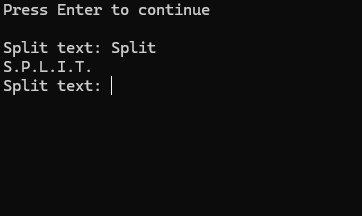
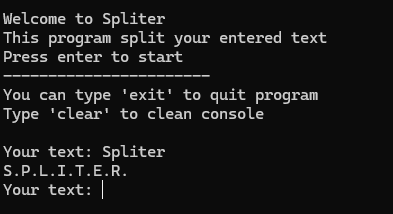
Minor update

diff --git a/Spliter.py b/Spliter.py
@@ -1,9 +1,43 @@
+import os
+import time
+
 def spliter(word):
     for i in word:
         print(i.upper(), end=".")
 
-inp = input("Press Enter to continue")
+def clearConsole():
+    if os.name == 'nt':
+        os.system('cls')
+    else:
+        os.system('clear')
 
-while inp != "exit":
-    inp = input("\nSplit text: ")
-    spliter(inp)
+
+def main():
+
+    inp = input(
+        "\nWelcome to Spliter\n" 
+        "This program split your entered text\n"
+        "Press enter to start"
+    )
+
+    print(
+        "-----------------------\n"
+        "You can type 'exit' to quit program\n"
+        "Type 'clear' to clean console"
+        )   
+
+    while True:
+
+        inp = input("\nYour text: ")
+    
+        if inp == "clear":
+            clearConsole()
+        elif inp == "exit":
+            print("\nGood Bye")
+            time.sleep(1)
+            break
+        else:
+            spliter(inp)
+
+if __name__ == "__main__":
+    main()
